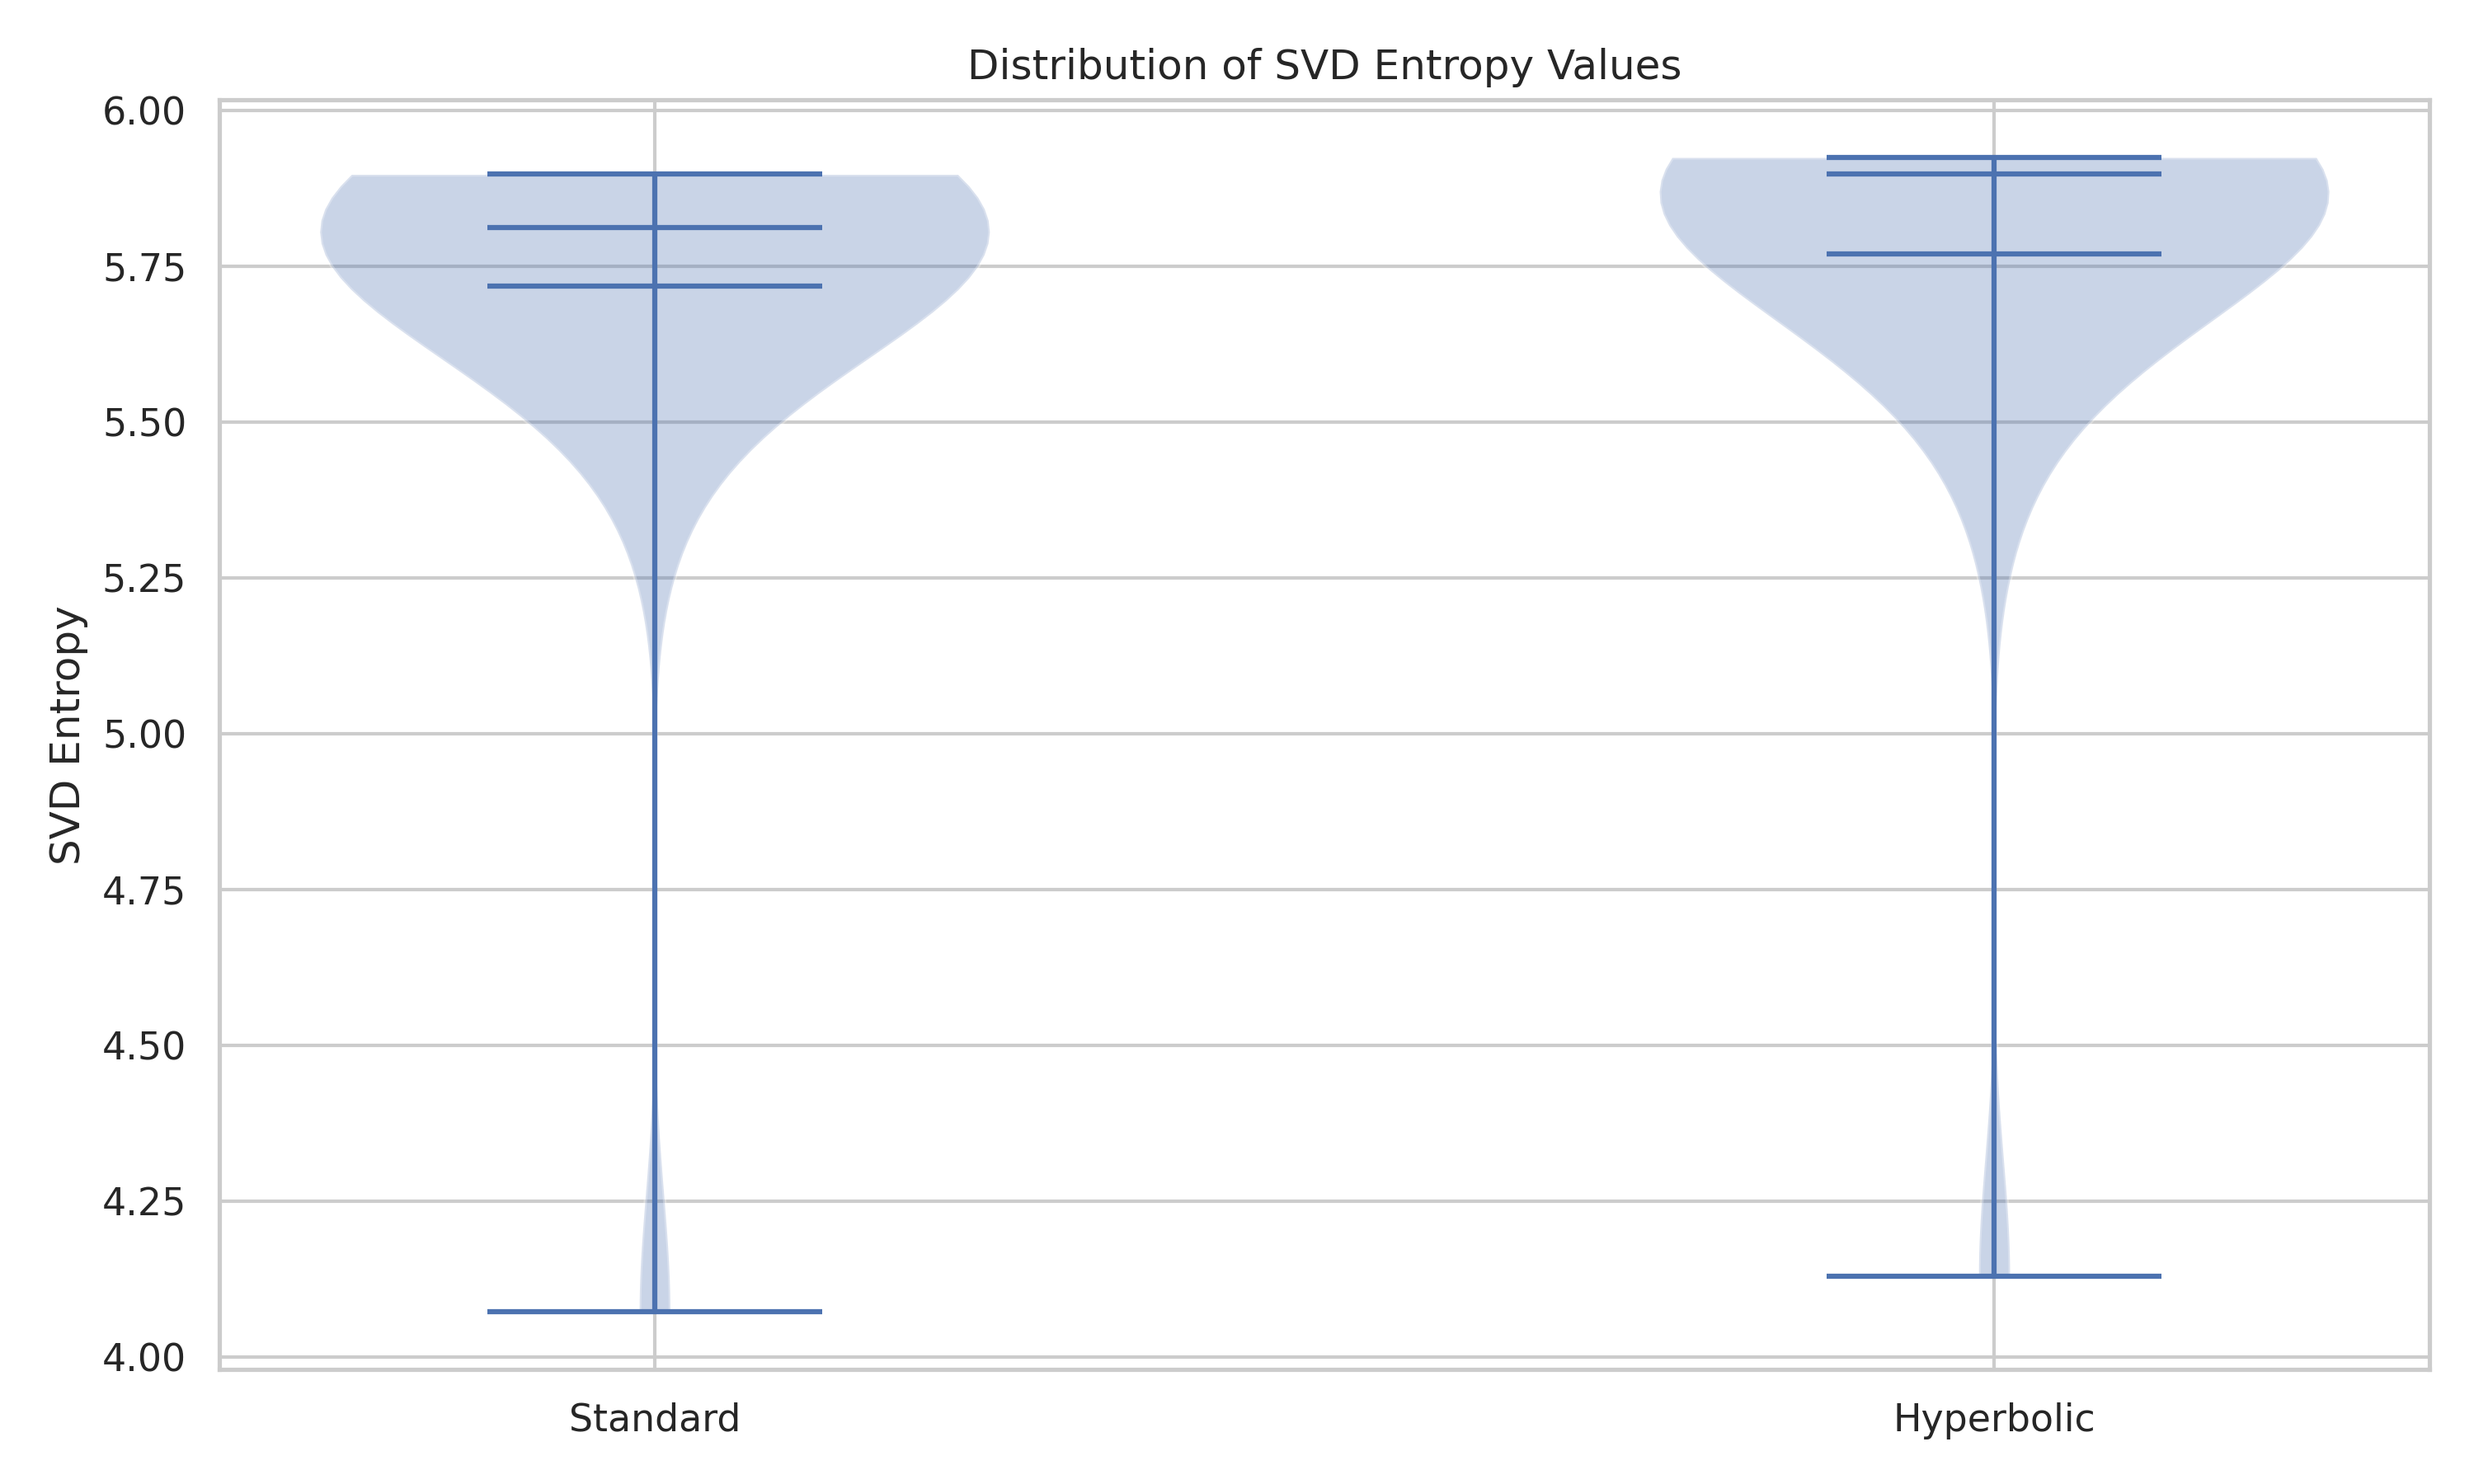
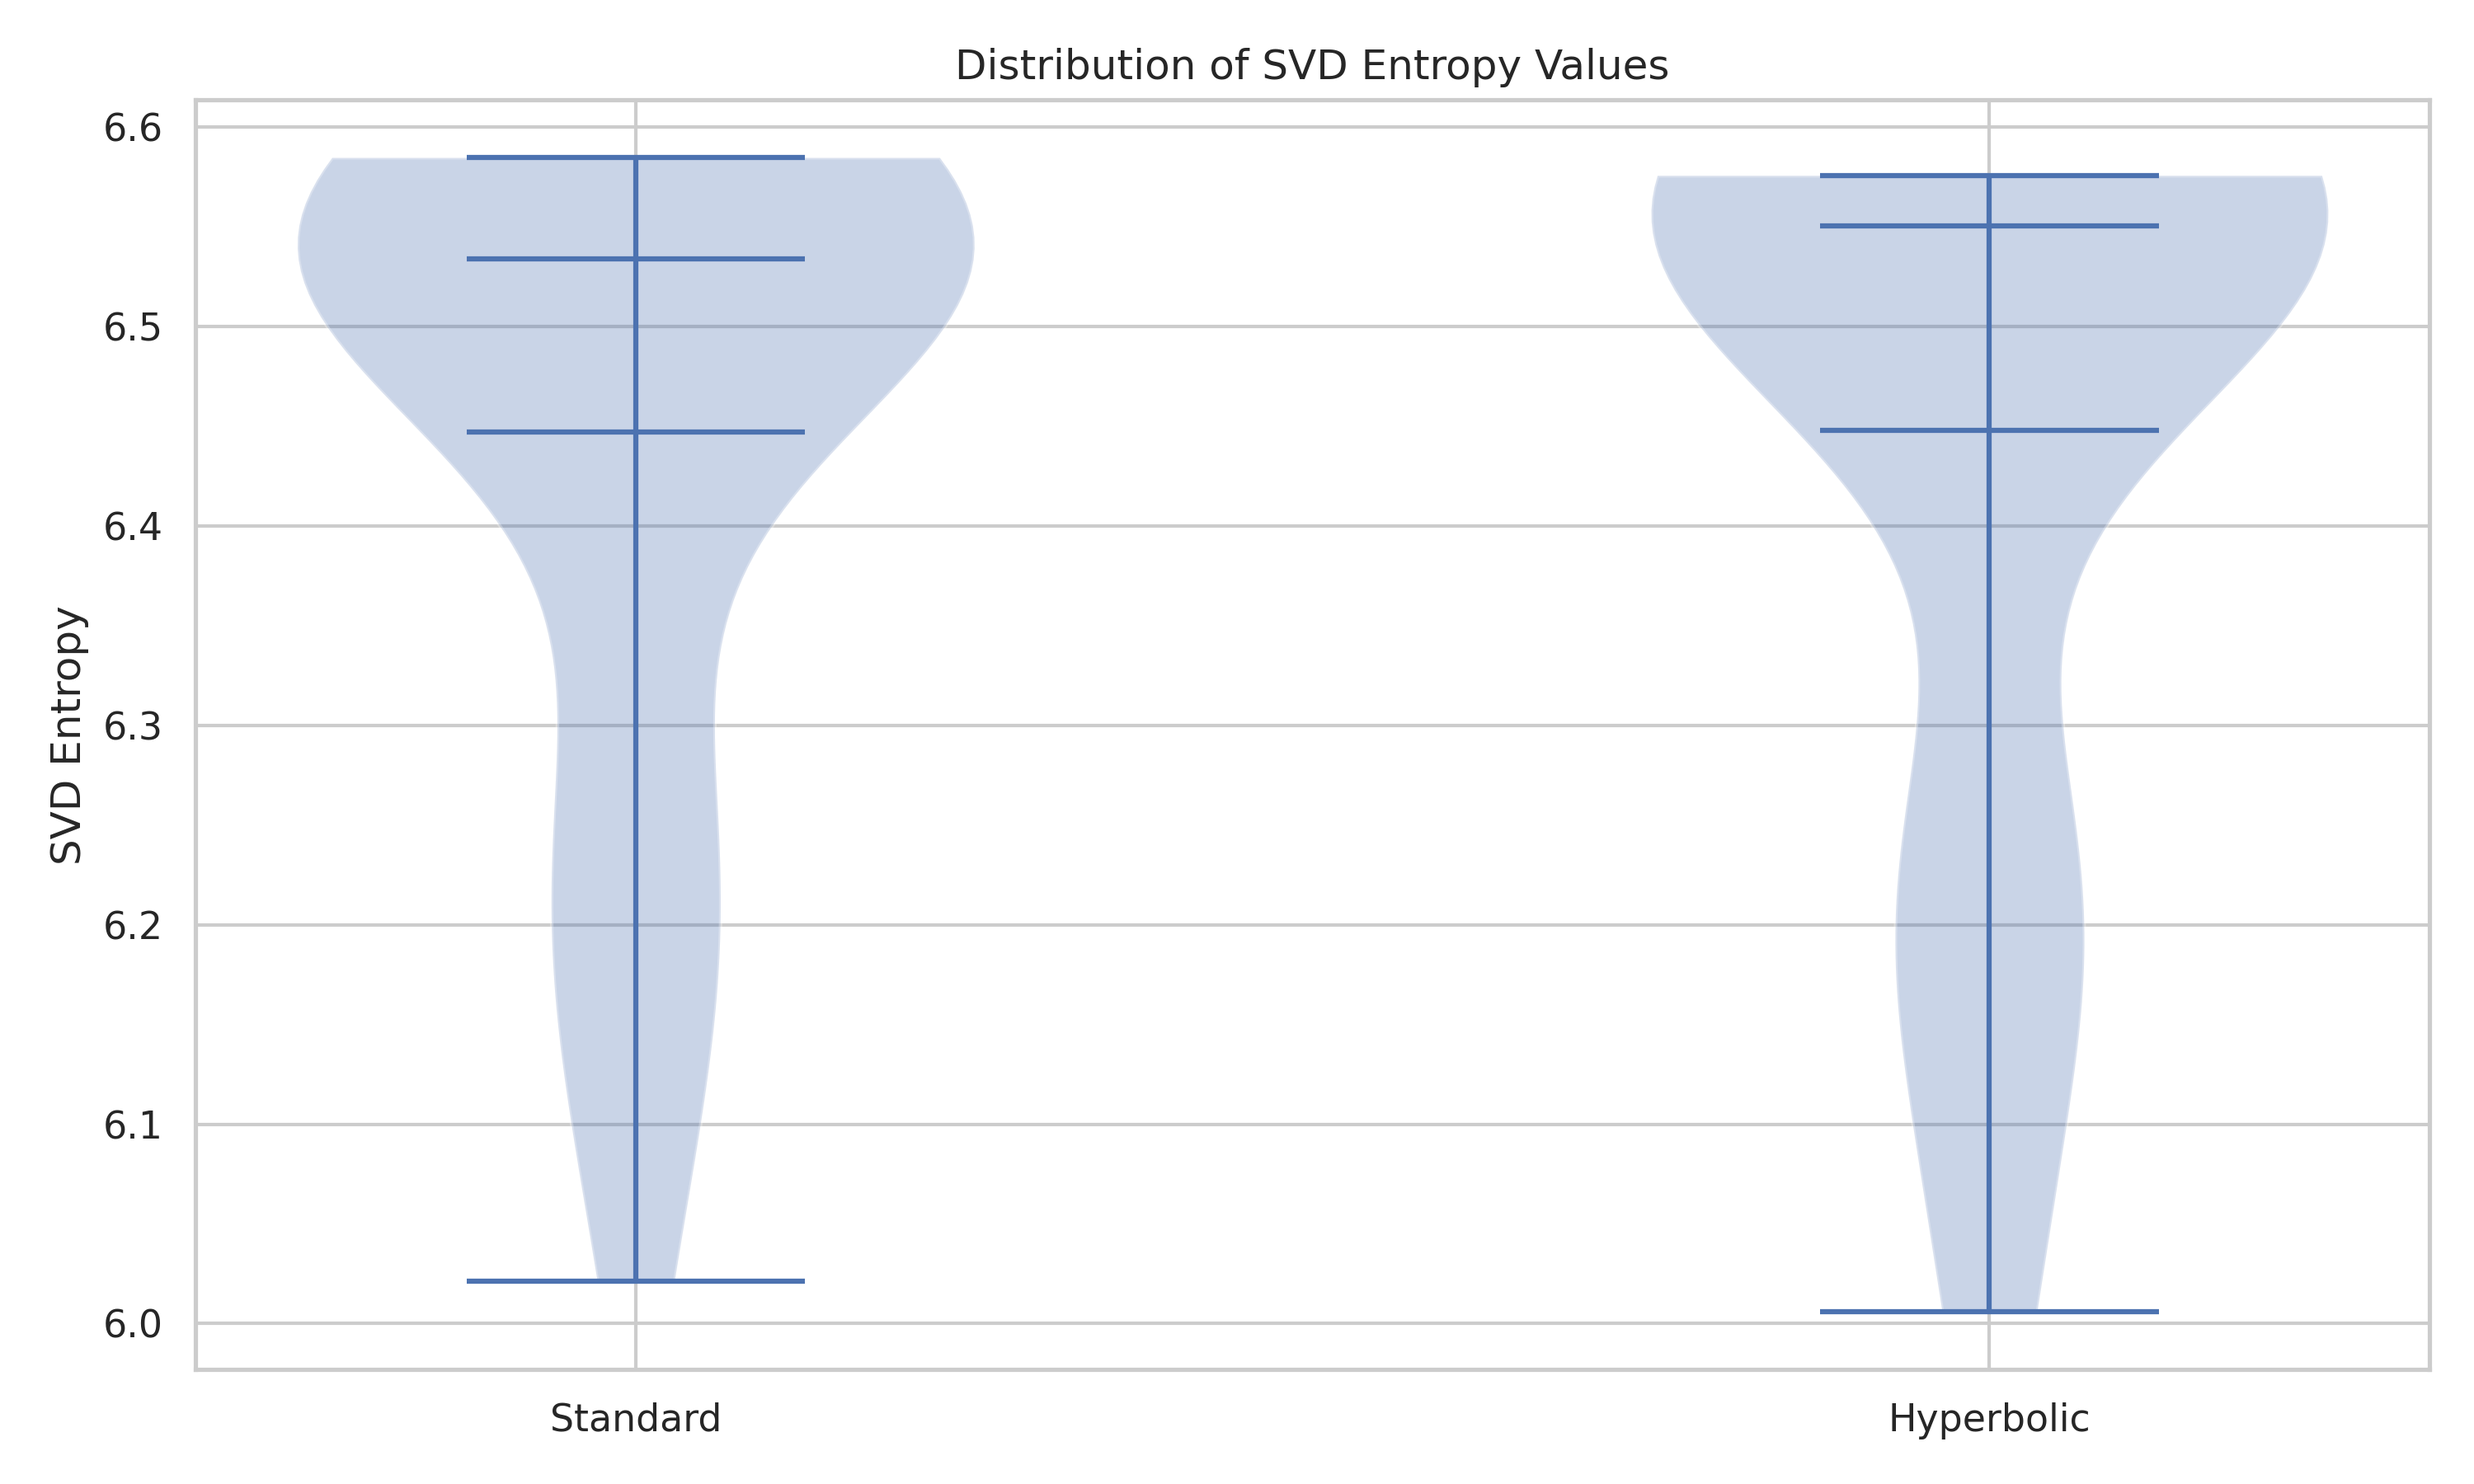
.

Changed region(s): [[0.031, 0.0311, 0.961, 0.9644], [0.775, 0.2178, 0.837, 0.2489]]

diff --git a/config/train_shakespeare_char.py b/config/train_shakespeare_char.py
@@ -39,3 +39,11 @@ map_back_after_attention = False
 # on macbook also add
 # device = 'cpu'  # run on cpu only
 # compile = False # do not torch compile the model
+curvature_mode 'tied' # 'fixed', 'parametric', 'tied', or any other value for random init
+curvature 0.0 # Fixed curvature value when curvature_mode is 'fixed'
+curvature_initialization: list = field(default_factory=list) # List of initial curvature values for parametric mode (one per layer when provided)
+map_back_after_attention: bool = False # whether to map back to hyperbolic space after attention or after the MLP
+per_head_curvature: bool = True # whether to use a different curvature for each head
+hyperbolic_embedding: bool = False # whether to use hyperbolic embeddings
+embedding_curvature_mode: str = 'random' # 'fixed', 'parametric', 'tied', or any other value for random init
+embedding_curvature: float = 1.0 # Fixed curvature value when embedding_curvature_mode is 'fixed'

diff --git a/train.py b/train.py
@@ -476,7 +476,7 @@ while True:
             }
             
             # Add curvature values to the log if they exist
-            if hasattr(raw_model.config, 'curvature_mode') and raw_model.config.curvature_mode in ['parametric', 'random']:
+            if hasattr(raw_model.config, 'curvature_mode') and raw_model.config.curvature_mode in ['parametric', 'random','tied']:
                 all_curvature_values = []
                 for i, block in enumerate(raw_model.transformer.h):
                     if hasattr(block, 'c') and isinstance(block.c, nn.Parameter):

diff --git a/visualization_svd_entropy.py b/visualization_svd_entropy.py
@@ -212,8 +212,8 @@ def visualize_svd_entropy():
     
     # Model paths and their types
     model_configs = {
-        'Standard': {'path': 'out-shakespeare-char', 'is_hyperbolic': False},
-        'Hyperbolic': {'path': 'Hyperbolic-out-shakespeare-char', 'is_hyperbolic': True}
+        'Standard': {'path': 'out_baseline_large', 'is_hyperbolic': False},
+        'Hyperbolic': {'path': 'out_hyperbolic_large', 'is_hyperbolic': True}
     }
     
     models = {}
